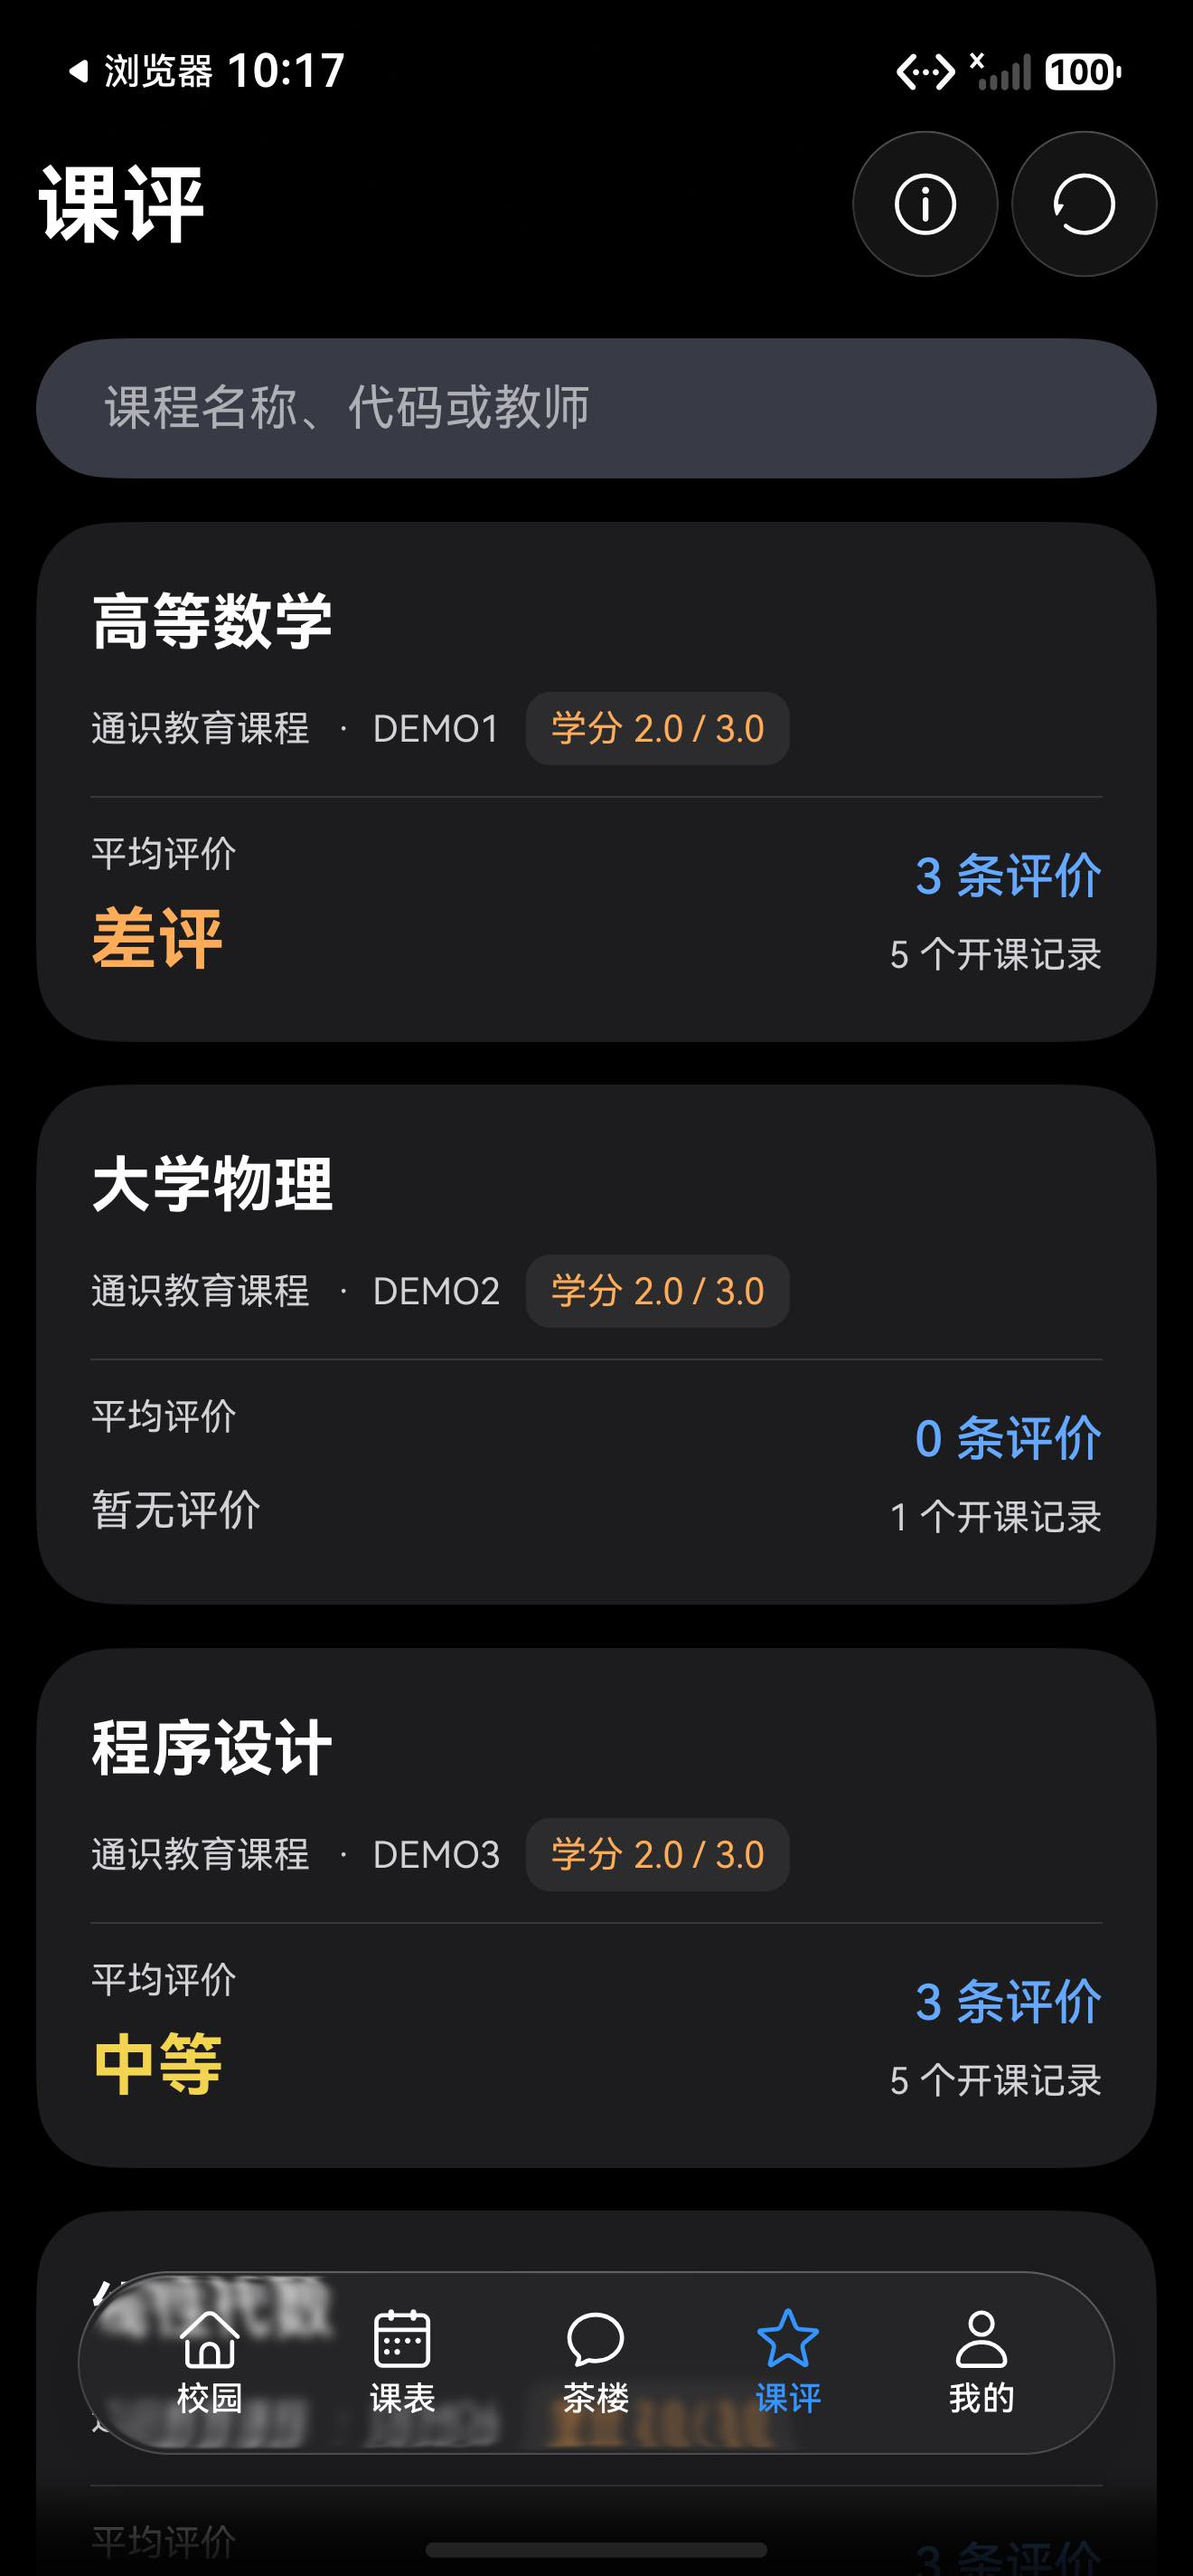
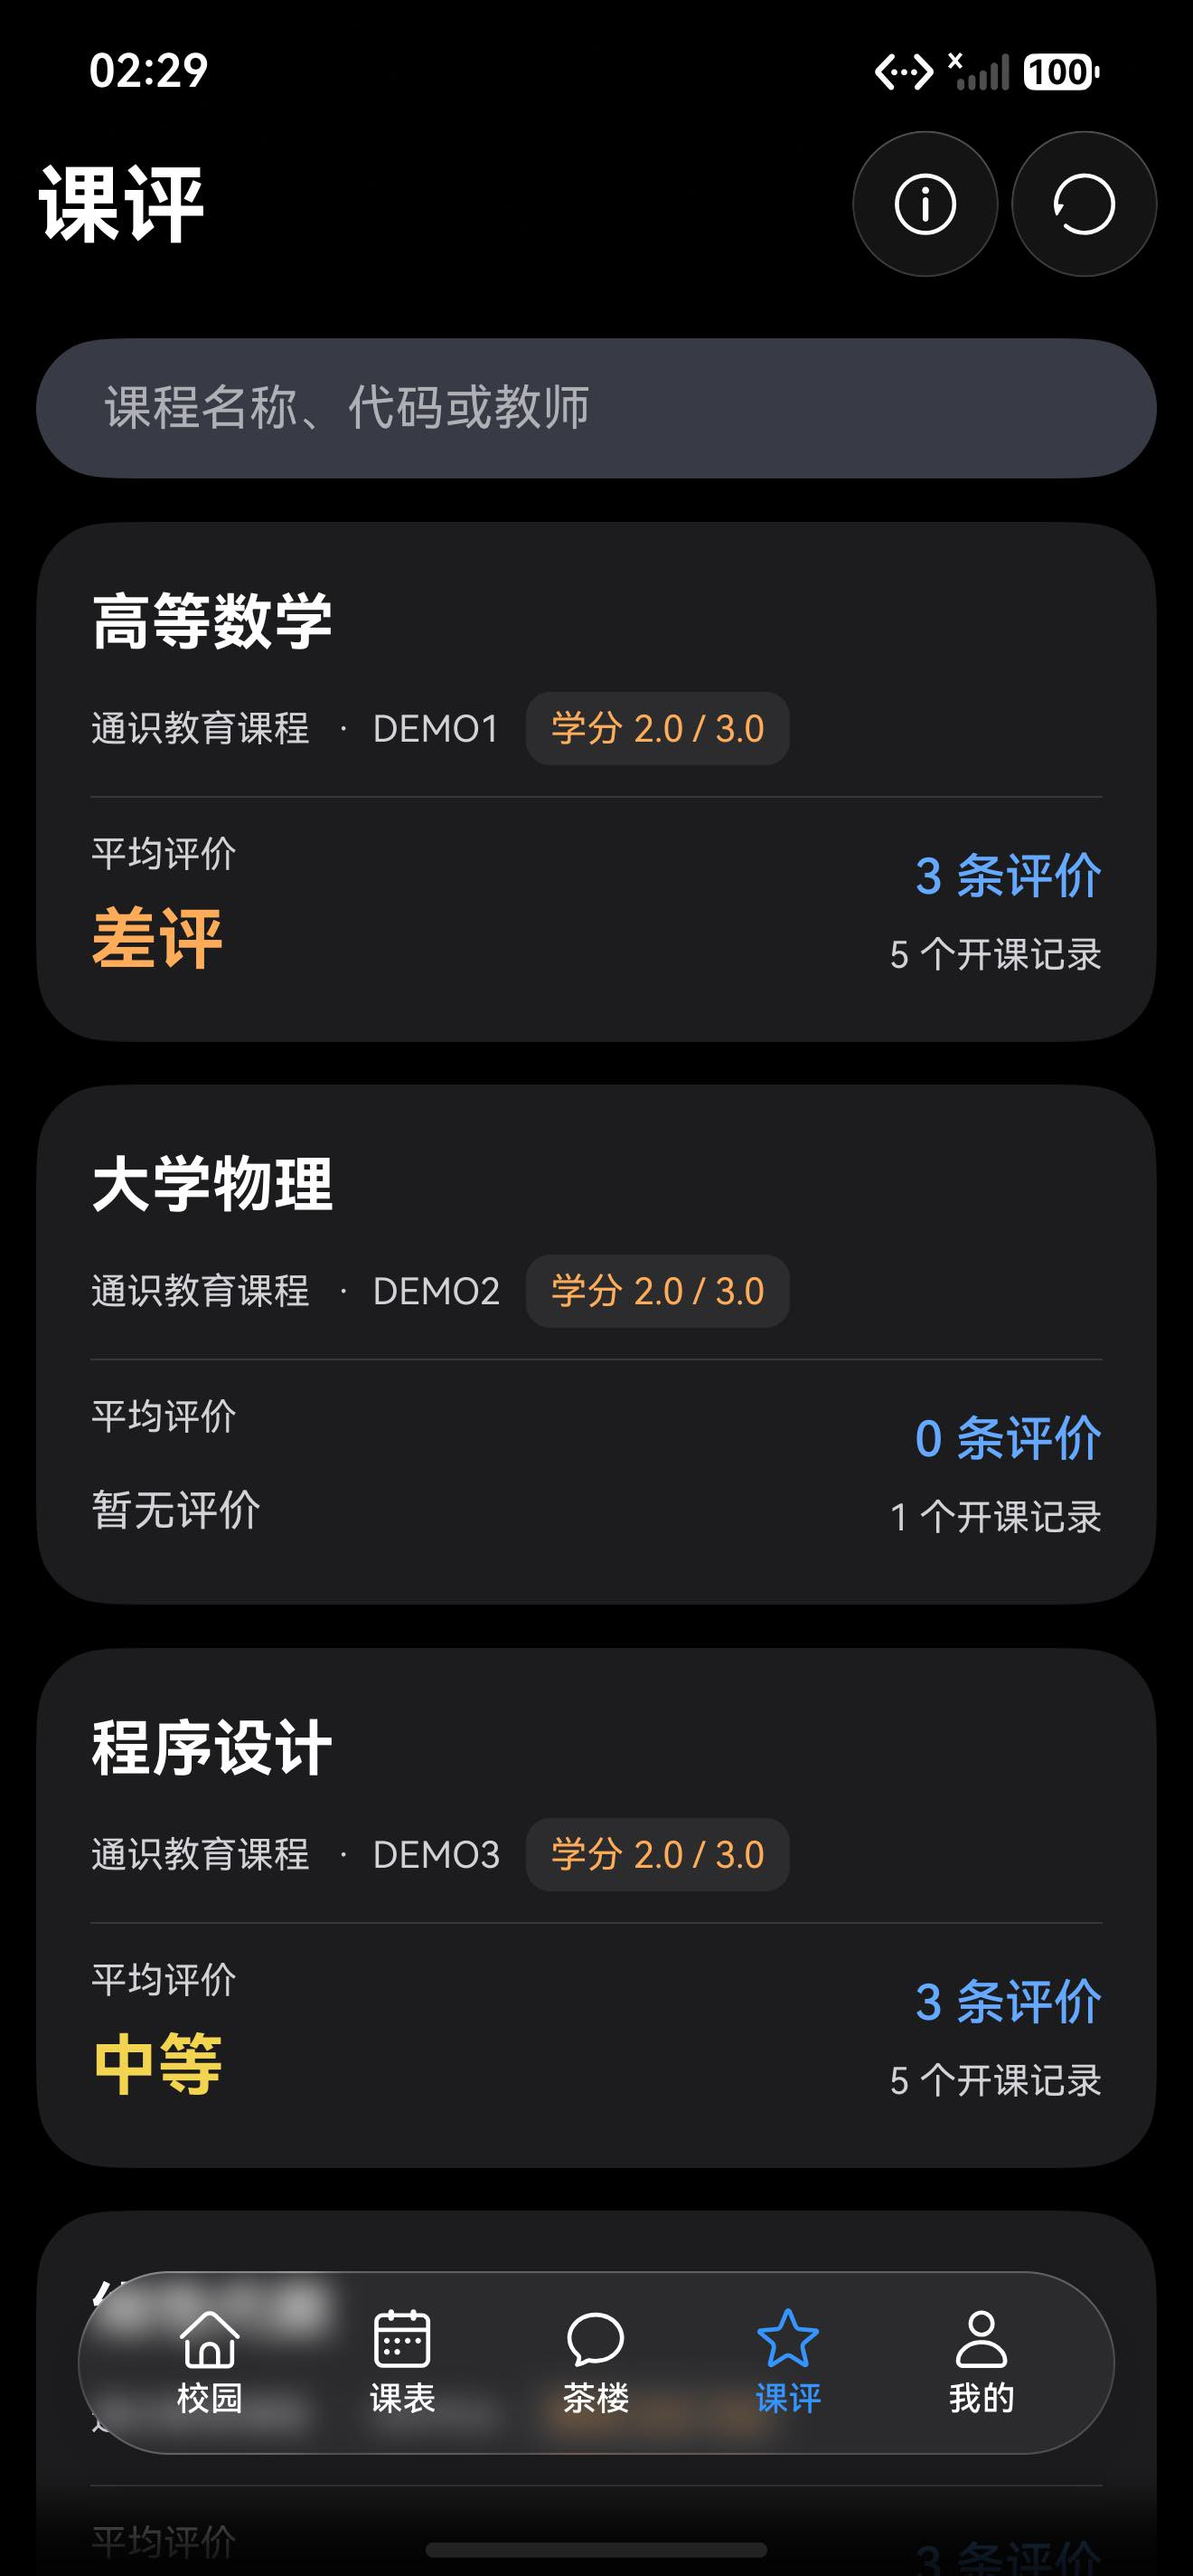
docs: refresh 0.1.43.6 interface previews

diff --git a/docs/RELEASE_NOTES.md b/docs/RELEASE_NOTES.md
@@ -30,7 +30,7 @@
 
 - 优化冷启动状态恢复、会话选路及重复磁盘写入。
 - 修复考试与成绩卡片的旧说明、多个页面的加载指示位置。
-- 调整关于页和开发者详情，更新开屏及关于页吉祥物的柔和光晕。
+- 调整关于页和开发者详情，更新开屏及关于页应用图标的柔和光晕。
 - 完善读取诊断与错误分类，便于区分网络、认证和组件初始化问题。
 
 
@@ -63,7 +63,7 @@ f3e508935b460fe8b9bdf01bdd40fdad1567f15e88cf7516eb29923e1f5402d2
 - 课评列表保留滚动中有界预加载和逐行发布；精简摘要与完整详情缓存隔离，首次进入未缓存的详情可能需要再次读取完整响应。合成测试不证明所有交互更快，也没有真实手机帧率提升结论。
 - 从 0.1.35.3 升级后，旧版没有新版安全恢复项可迁移；会话失效时需重新登录一次，建立以后重启使用的安全凭据。MFA、验证码及服务端会话过期仍依学校要求处理。
 - 未完成真实手机私有账号、真实 MFA、隔夜会话、全部校园服务，以及小白调试助手/HoKit 本版真机签装验证。
-- 0.1.36.3 已撤回，底栏恢复为 0.1.36.2 的实现；课评最终使用首次进入检查、后续手动刷新，不包含中间版本的周期更新方案。README 界面示例为 0.1.35.3 的演示截图，当前局部显示可能不同。
+- 0.1.36.3 已撤回，底栏恢复为 0.1.36.2 的实现；课评最终使用首次进入检查、后续手动刷新，不包含中间版本的周期更新方案。README 界面示例已更新为 0.1.43.6 的校园、茶楼和课评演示界面，包含浅色与深色模式。
 
 ---
 

diff --git a/README.md b/README.md
@@ -49,7 +49,7 @@
 
 ## 界面示例
 
-以下展示校园卡片、茶楼信息流和课评列表的常规使用界面，保留当前版本的原生底部导航。示例采集于 0.1.35.3，由当时的正式页面组件渲染，供界面风格参考；当前版本局部显示可能不同。课程、金额、帖子和评分采用演示数据，不含真实账号资料。
+以下展示校园卡片、茶楼信息流和课评列表的常规使用界面，保留当前版本的原生底部导航。以下六张截图采集自 **0.1.43.6 Alpha（构建 187）**，由当前正式页面组件渲染。课程、金额、帖子和评分均为演示数据，茶楼包含 12 条校园日常示例帖子，不含真实姓名、学号、账号或私密内容。
 
 **浅色模式**
 
